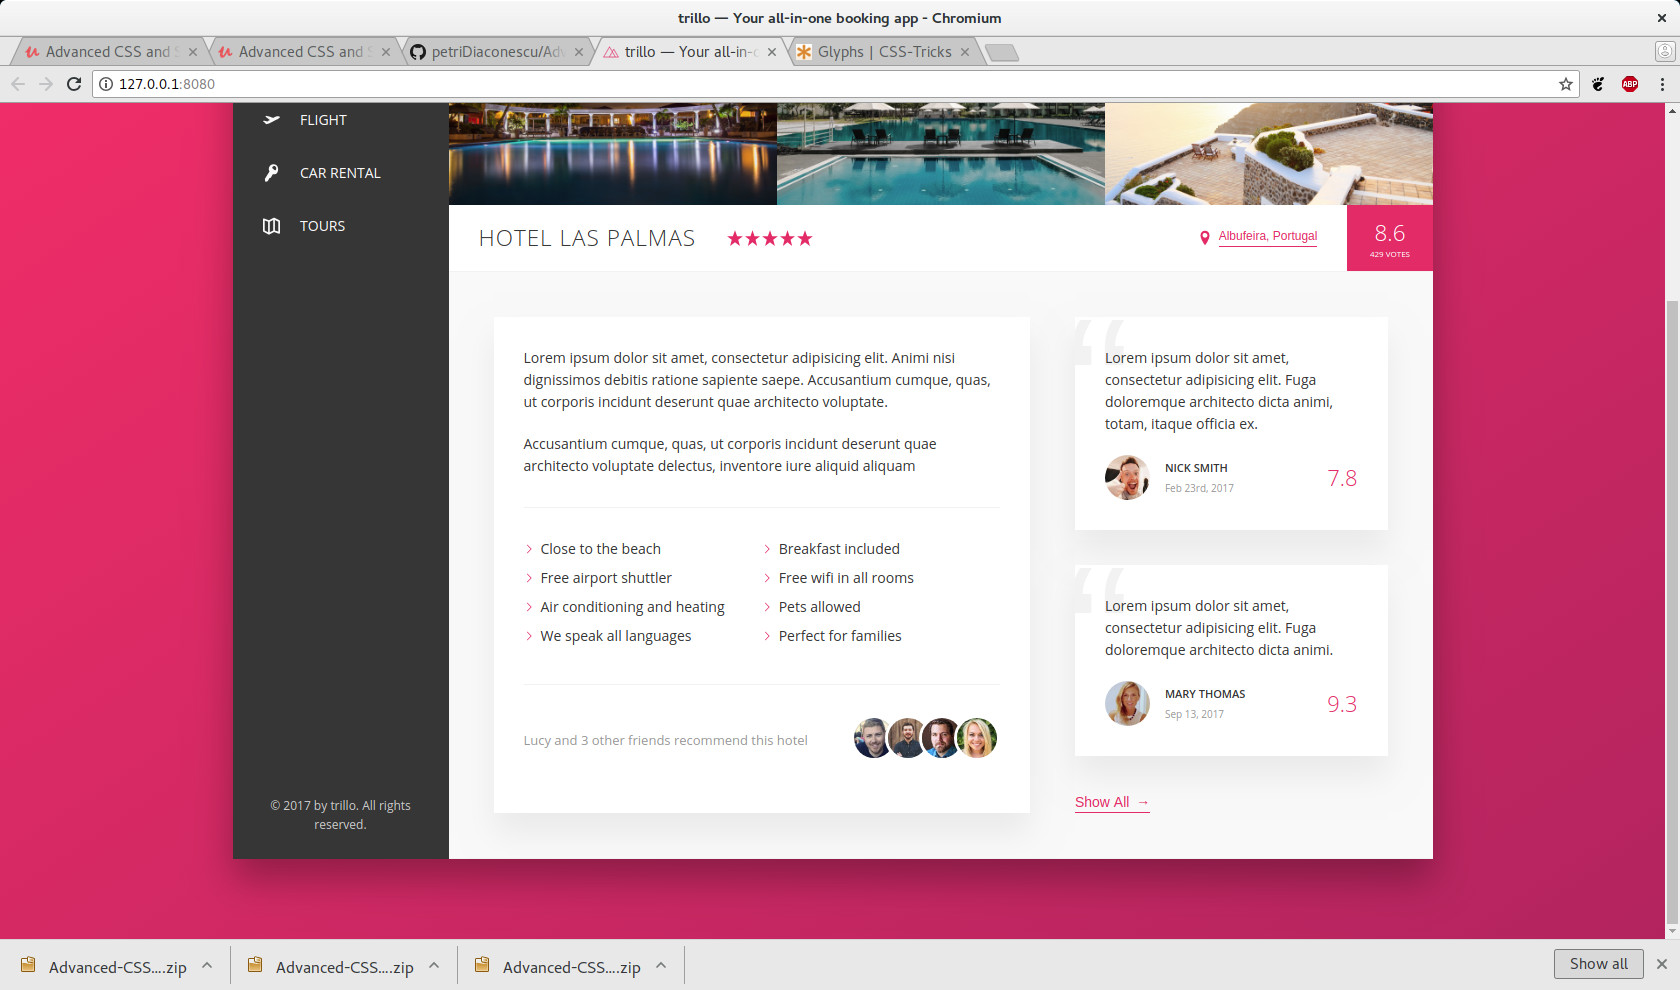
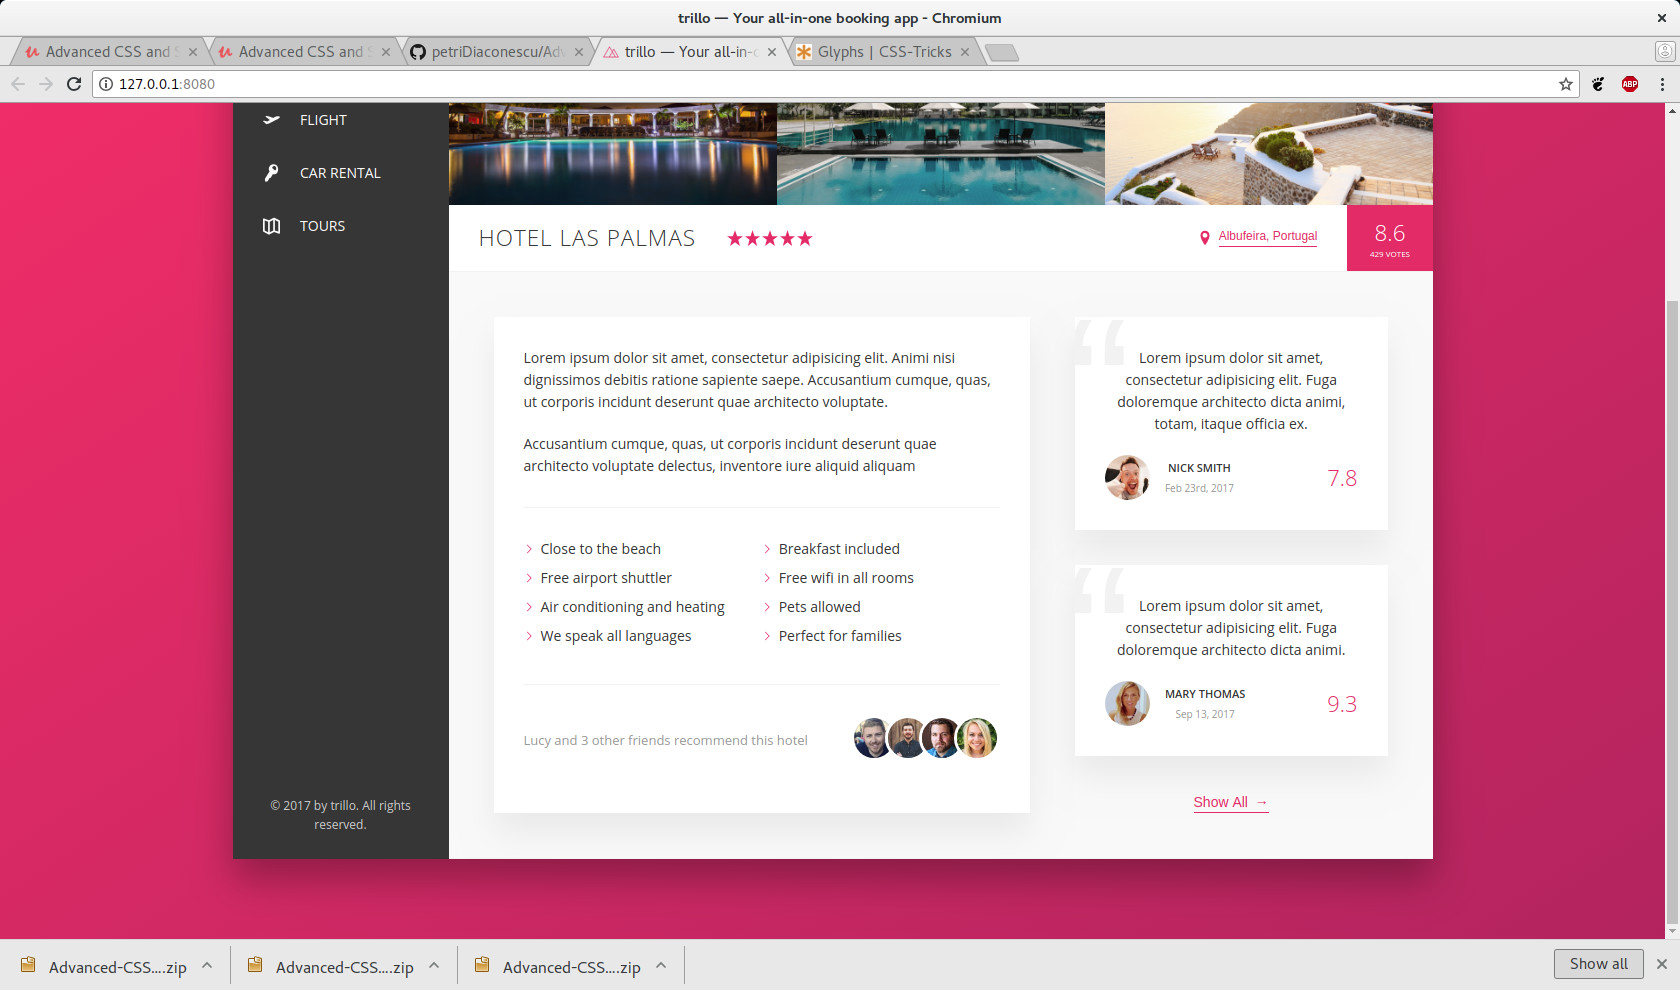
Center the inline button at the middle of the line the right way. I use flex for that.

diff --git a/sass/_layout.scss b/sass/_layout.scss
@@ -58,5 +58,7 @@
 
 .user-reviews {
   flex: 1;
-  text-align: center;
+  display: flex;
+  flex-direction: column;
+  align-items: center;
 }
